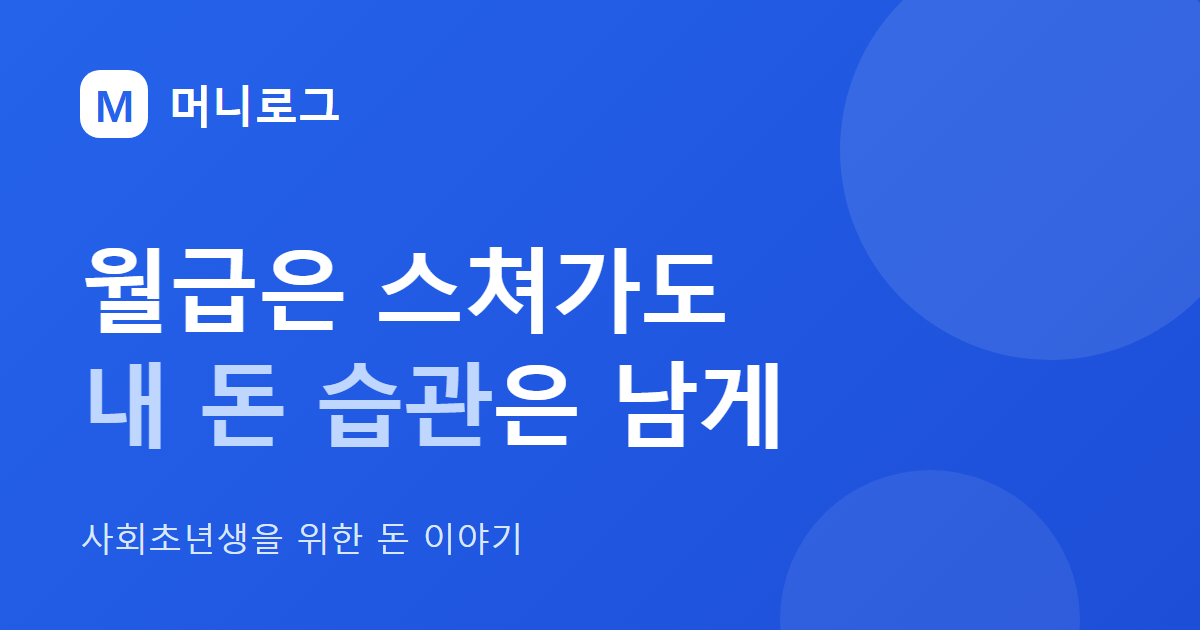
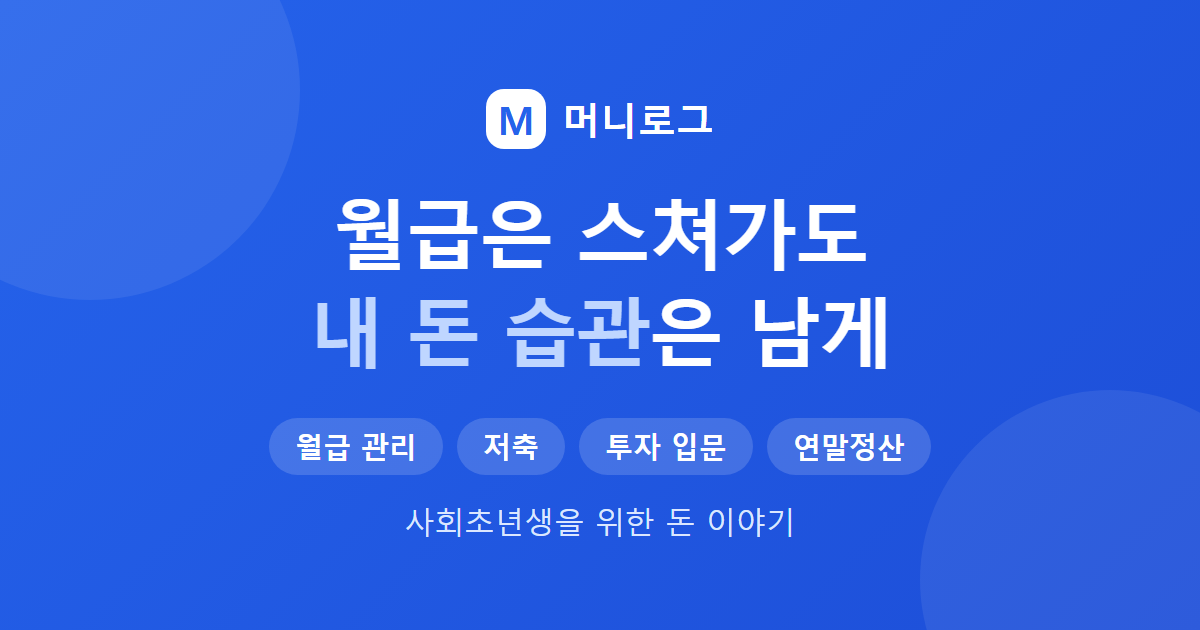
Redesign OG image for link previews (centered, topic chips)

diff --git a/public/index.html b/public/index.html
@@ -13,14 +13,14 @@
   <meta property="og:title" content="머니로그 — 사회초년생을 위한 돈 이야기">
   <meta property="og:description" content="월급 관리, 저축, 투자 입문, 연말정산까지. 직접 겪고 배운 돈 이야기를 기록합니다.">
   <meta property="og:url" content="https://blog-test-a09.pages.dev/">
-  <meta property="og:image" content="https://blog-test-a09.pages.dev/og-image.png">
+  <meta property="og:image" content="https://blog-test-a09.pages.dev/og-image.png?v=2">
   <meta property="og:image:width" content="1200">
   <meta property="og:image:height" content="630">
   <meta property="og:image:alt" content="머니로그 — 사회초년생을 위한 돈 이야기">
   <meta name="twitter:card" content="summary_large_image">
   <meta name="twitter:title" content="머니로그 — 사회초년생을 위한 돈 이야기">
   <meta name="twitter:description" content="월급 관리, 저축, 투자 입문, 연말정산까지. 직접 겪고 배운 돈 이야기를 기록합니다.">
-  <meta name="twitter:image" content="https://blog-test-a09.pages.dev/og-image.png">
+  <meta name="twitter:image" content="https://blog-test-a09.pages.dev/og-image.png?v=2">
   <link rel="apple-touch-icon" href="/apple-touch-icon.png">
   <script type="application/ld+json">{"@context":"https://schema.org","@type":"WebSite","name":"머니로그","url":"https://blog-test-a09.pages.dev/","description":"월급 관리, 저축, 투자 입문, 연말정산까지. 직접 겪고 배운 돈 이야기를 기록합니다.","inLanguage":"ko-KR"}</script>
   <link rel="icon" href="/favicon.svg" type="image/svg+xml">

diff --git a/lib/site.js b/lib/site.js
@@ -2,7 +2,7 @@
 export const SITE_URL = "https://blog-test-a09.pages.dev";
 export const SITE_NAME = "머니로그";
 export const SITE_DESC = "월급 관리, 저축, 투자 입문, 연말정산까지. 직접 겪고 배운 돈 이야기를 기록합니다.";
-export const OG_IMAGE = `${SITE_URL}/og-image.png`;
+export const OG_IMAGE = `${SITE_URL}/og-image.png?v=2`;
 
 export const esc = (s) =>
   String(s).replace(/&/g, "&amp;").replace(/</g, "&lt;").replace(/>/g, "&gt;").replace(/"/g, "&quot;");
